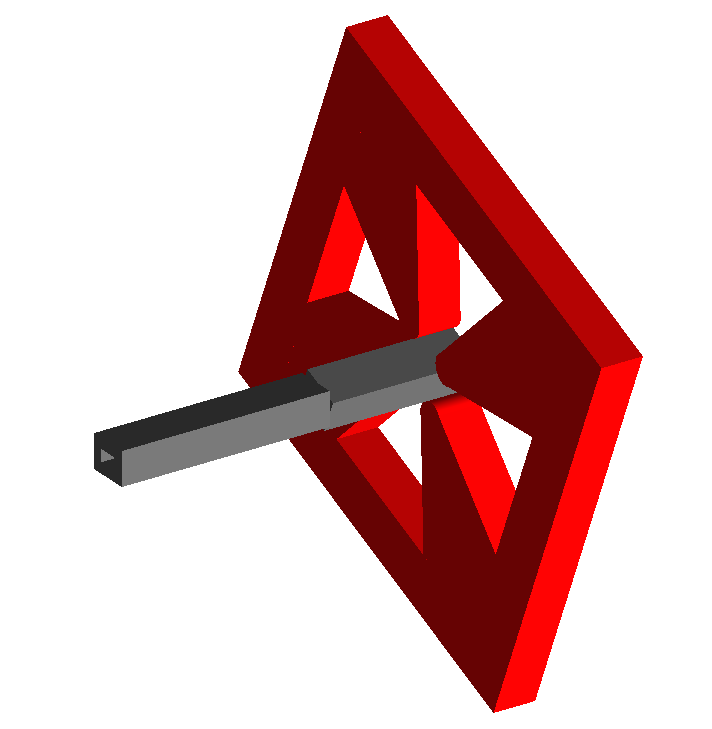
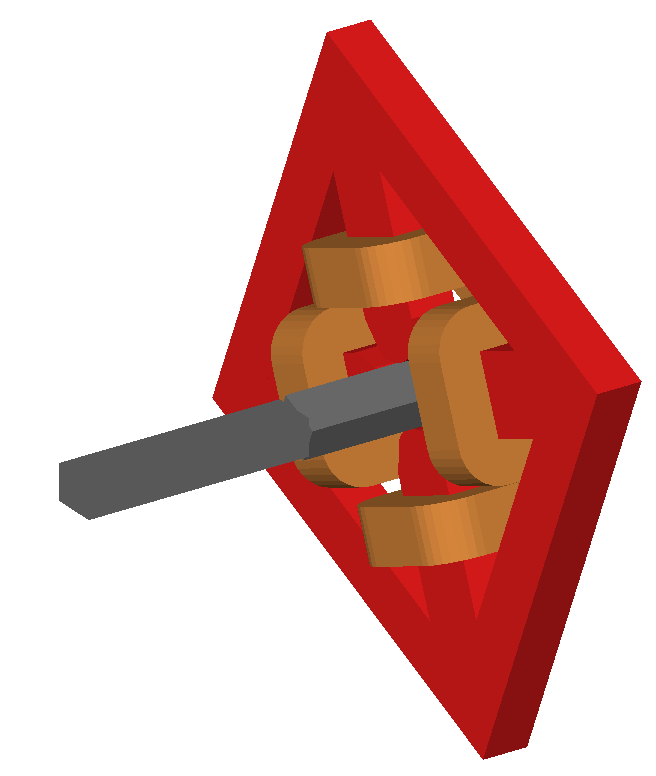
Update out of date images in manual given geometry changes.

diff --git a/examples/features/geometry/4_magnets/4_magnets.rst b/examples/features/geometry/4_magnets/4_magnets.rst
@@ -108,6 +108,9 @@ LHC cyrogenic magnet for dipoles and quadrupoles.  Given the two beam nature
 of the LHC, the magnet is either offset to the right or two the left dictating
 the 'active' beam pipe.
 
+.. figure:: 7_lhcleft.png
+	    :width: 70%
+
 8_none.gmad
 -----------
 
